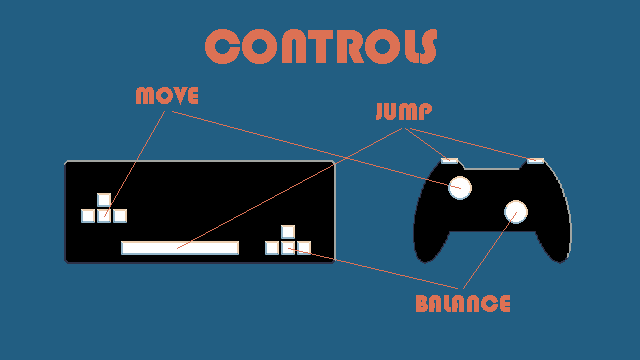
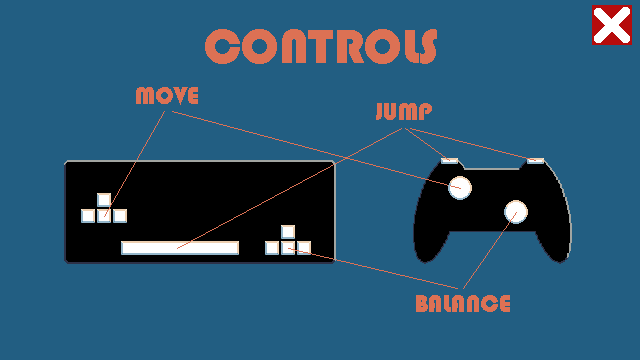
Updates

Changed region(s): [[0.9062, 0.0, 1.0, 0.1222]]

diff --git a/Assets/Scripts/MainMenuScript.cs b/Assets/Scripts/MainMenuScript.cs
@@ -12,6 +12,7 @@ public class MainMenuScript : MonoBehaviour
     public GameObject credits;
     public GameObject how;
     public GameObject play;
+    public GameObject howImage;
 
     AudioSource audiosource;
     public AudioClip music;
@@ -23,10 +24,8 @@ public class MainMenuScript : MonoBehaviour
         audiosource = GetComponent<AudioSource>();
         audiosource.clip = music;
         audiosource.Play();
-        quit.SetActive(false);
-        credits.SetActive(false);
-        how.SetActive(false);
-        play.SetActive(false);
+        FalseAll();
+        menu.SetActive(true);
     }
 
     public void PlayGame()
@@ -50,7 +49,8 @@ public class MainMenuScript : MonoBehaviour
 
     private void Instructions()
     {
-        // Show instructions
+        FalseAll();
+        howImage.SetActive(true);
     }
 
     public void Credits()
@@ -77,6 +77,12 @@ public class MainMenuScript : MonoBehaviour
         Application.Quit();
     }
 
+    public void BackButton()
+    {
+        FalseAll();
+        menu.SetActive(true);
+    }
+
     private void FalseAll()
     {
         menu.SetActive(false);
@@ -84,5 +90,7 @@ public class MainMenuScript : MonoBehaviour
         credits.SetActive(false);
         how.SetActive(false);
         play.SetActive(false);
+        howImage.SetActive(false);
     }
-}
+
+    }
